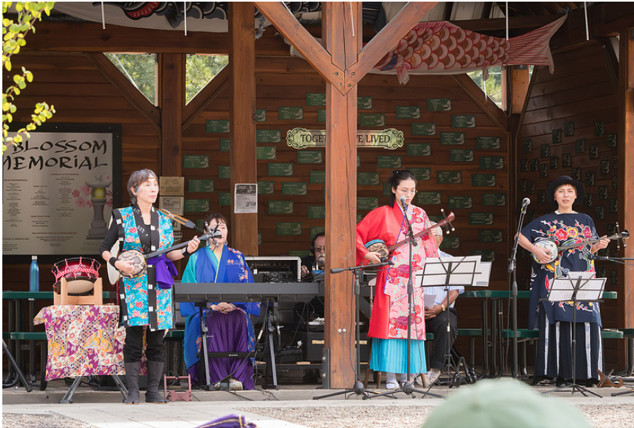
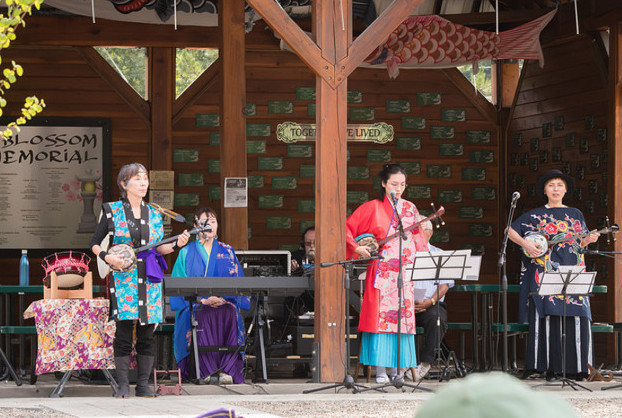
updates

diff --git a/src/GalleryPage.tsx b/src/GalleryPage.tsx
@@ -112,6 +112,7 @@ import location_1  from './img/gallery/locations/location_1.jpg';
 import location_2  from './img/gallery/locations/location_2.jpg';
 import location_3  from './img/gallery/locations/location_3.jpg';
 import location_4  from './img/gallery/locations/location_4.jpg';
+import location_5  from './img/gallery/locations/location_5.jpg';
 
 import labourDay_1  from './img/gallery/labourDay/labourDay1.jpg';
 import labourDay_2  from './img/gallery/labourDay/labourDay2.jpg';
@@ -190,6 +191,7 @@ import opening_1  from './img/gallery/opening2025/opening_1.jpg';
 import opening_2  from './img/gallery/opening2025/opening_2.jpg';
 import opening_3  from './img/gallery/opening2025/opening_3.jpg';
 import opening_4  from './img/gallery/opening2025/opening_4.jpg';
+import opening_5  from './img/gallery/opening2025/opening_5.jpg';
 
 interface GalleryImage {
   src: string;
@@ -275,6 +277,11 @@ const OPENING_IMAGES: GalleryImage[] = [
     caption: <>Grand Opening of Nikkei Memorial Garden July 20th, 2025.  Many thanks to JCLS, City of Greenwood Public Works and Greenwood Museum for your unbelievable support.
     <br /> <br />
     Mayor John Bolt, Linda Kawamoto-Reid, JCLS CEO Susanne Tabata,  Clare Folvik, Kumpei Wakino.  Holding the ribbons are Laura Yamaguchi and Rachel Yamaguchi.</>,
+  },
+  {
+    src: opening_5,
+    alt: 'Opening Image 5',
+    caption: <>As is the Japanese custom is when you start a project, you add one eye.  When the project is completed, you colour in the other eye to signify a successful result.</>,
   },
 ];
 
@@ -600,6 +607,15 @@ const LOCATIONS_IMAGES: GalleryImage[] = [
         Old smelter in Anaconda just south-west of Greenwood.  250,000 bricks were used to build the tall chimney.
         <br /><br />
         Photo courtesy of Greenwood Museum
+      </>
+    ),
+  },
+    {
+    src: location_5,
+    alt: 'B.C. Security Commission Garden',
+    caption: (
+      <>
+        B.C. Security Commission Garden:  BCSC found a plot of land by the creek towards the smelter for ‘apartment’ dwellers.  You could see elderly men and women carrying a large okaki tin full of water from the creek.  Men made sprinkler device by drilling holes on the bottom of the old tobacco can and a short handle that went through both sides of the can.
       </>
     ),
   },